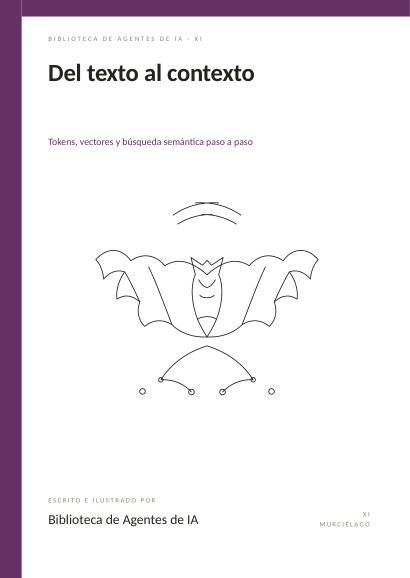
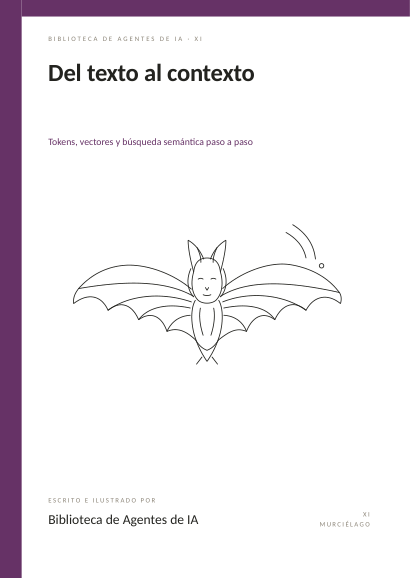
Mejorar portada del volumen XI

diff --git a/library/11_del_texto_al_contexto/libro.html b/library/11_del_texto_al_contexto/libro.html
@@ -200,17 +200,32 @@ section.colophon tr.current td{font-weight:700;color:var(--accent-dark);}
 </head><body>
 <section class="cover"><div class="spine"></div><div class="band"></div>
 <div class="pub">Biblioteca de Agentes de IA · XI</div><h1>Del texto al contexto</h1>
-<div class="sub">Tokens, vectores y búsqueda semántica paso a paso</div><div class="art"><svg xmlns="http://www.w3.org/2000/svg" viewBox="0 0 520 470" role="img" aria-label="Murciélago lineal entre ondas y puntos"><title>Murciélago y señales</title><g fill="none" stroke="#23231f" stroke-width="1.5" stroke-linecap="round" stroke-linejoin="round">
-<path d="M260 165 C228 137 204 136 184 149 C167 128 143 126 123 140 C106 116 80 115 60 138 C67 145 73 158 74 173 C84 161 98 155 112 160 C101 175 96 193 98 209 C112 200 126 202 139 214 C133 232 137 247 148 258 C164 245 181 245 197 255 C213 271 236 278 260 277"/>
-<path d="M260 165 C292 137 316 136 336 149 C353 128 377 126 397 140 C414 116 440 115 460 138 C453 145 447 158 446 173 C436 161 422 155 408 160 C419 175 424 193 422 209 C408 200 394 202 381 214 C387 232 383 247 372 258 C356 245 339 245 323 255 C307 271 284 278 260 277"/>
-<path d="M239 165 L231 134 L252 148 L260 139 L268 148 L289 134 L281 165"/>
-<path d="M239 165 C230 184 232 217 243 245 C248 257 253 266 260 277 M281 165 C290 184 288 217 277 245 C272 257 267 266 260 277"/>
-<path d="M245 174 C250 183 255 187 260 188 C265 187 270 183 275 174 M247 202 C253 208 267 208 273 202 M243 245 C252 239 268 239 277 245"/>
-<path d="M155 151 C167 176 174 195 197 255 M365 151 C353 176 346 195 323 255 M112 160 C122 177 130 194 139 214 M408 160 C398 177 390 194 381 214"/>
-<path d="M207 74 C229 61 250 56 270 57 M199 58 C225 40 253 34 281 36 M313 74 C291 61 270 56 250 57 M321 58 C295 40 267 34 239 36"/>
-<path d="M260 293 C222 305 195 326 177 354 M260 293 C298 305 325 326 343 354 M177 354 C199 353 218 361 232 376 M343 354 C321 353 302 361 288 376"/>
-<circle cx="144" cy="375" r="5"/><circle cx="177" cy="354" r="4"/><circle cx="232" cy="376" r="5"/><circle cx="376" cy="375" r="5"/><circle cx="343" cy="354" r="4"/><circle cx="288" cy="376" r="5"/>
-</g></svg>
+<div class="sub">Tokens, vectores y búsqueda semántica paso a paso</div><div class="art"><svg xmlns="http://www.w3.org/2000/svg" viewBox="0 0 520 420" role="img" aria-label="Murciélago en vuelo con alas abiertas y ecos hacia la derecha">
+  <title>Murciélago en vuelo</title>
+  <g fill="none" stroke="#23231f" stroke-width="1.5" stroke-linecap="round" stroke-linejoin="round">
+    <!-- Alas: línea superior amplia y membrana con cuatro lóbulos. -->
+    <path d="M232 191 C199 163 152 146 114 148 C81 150 52 164 29 190 C22 199 19 207 20 217 C46 197 70 202 82 229 C104 211 125 218 137 246 C158 231 178 238 188 267 C207 259 223 267 239 282"/>
+    <path d="M288 190 C321 160 372 141 410 147 C447 153 478 170 498 197 C502 203 502 210 500 217 C477 198 452 203 438 229 C417 210 394 219 382 246 C361 230 341 241 331 267 C312 259 298 269 281 282"/>
+    <!-- Venas de las alas: irradian desde los hombros, sin formar una cuadrícula. -->
+    <path d="M236 204 C194 180 132 172 29 190 M232 214 C180 196 120 201 82 229 M230 225 C189 216 154 223 137 246 M230 238 C211 239 196 249 188 267"/>
+    <path d="M284 204 C326 178 391 173 498 197 M288 214 C338 194 399 201 438 229 M290 225 C333 216 367 223 382 246 M290 238 C309 239 324 249 331 267"/>
+    <!-- Orejas altas y cabeza pequeña, rasgos reconocibles de un murciélago. -->
+    <path d="M236 160 C231 142 226 119 226 103 C240 111 249 124 254 137 M284 160 C289 142 294 119 294 103 C280 111 271 124 266 137"/>
+    <path d="M236 160 C238 143 246 135 260 135 C274 135 282 143 284 160 C290 180 287 200 276 211 C268 218 252 218 244 211 C233 200 230 180 236 160 Z"/>
+    <path d="M231 154 C222 174 225 193 236 205 M289 154 C298 174 295 193 284 205"/>
+    <path d="M242 116 C246 125 249 132 249 143 M278 116 C274 125 271 132 271 143"/>
+    <!-- Rasgos del hocico, pequeños para que mande la silueta. -->
+    <path d="M244 173 Q249 170 253 173 M267 173 Q271 170 276 173"/>
+    <path d="M257 188 L260 193 L263 188 M253 201 Q260 204 267 201"/>
+    <!-- Cuerpo afilado y cola en V. -->
+    <path d="M239 211 C230 226 231 256 239 279 C245 297 252 309 260 321 C268 309 275 297 281 279 C289 256 290 226 281 211"/>
+    <path d="M239 282 C245 291 250 297 260 301 C270 297 275 291 281 282 M251 313 L241 326 M269 313 L279 326"/>
+    <path d="M248 225 C245 242 248 258 253 274 M272 225 C275 242 272 258 267 274"/>
+    <!-- Una señal discreta: el eco sugiere búsqueda, no certeza. -->
+    <path d="M402 89 Q432 106 438 135 M414 75 Q451 98 455 137"/>
+    <circle cx="466" cy="149" r="4"/>
+  </g>
+</svg>
 </div>
 <div class="author"><div class="by">Escrito e ilustrado por</div><div class="name">Biblioteca de Agentes de IA</div></div>
 <div class="num">XI<br>Murciélago</div></section>
